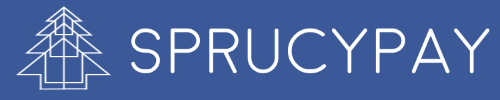
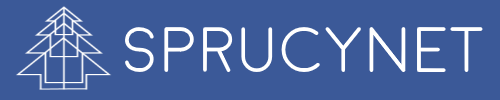
0.0.3 update
upated files to reflect the new sprucynet name
pointed to sprucy net db table
updated banner image

Changed region(s): [[0.24, 0.27, 0.99, 0.75]]

diff --git a/UserCreation.html b/UserCreation.html
@@ -1,4 +1,4 @@
-<!--SprucyPay Account Creation Page 8-19-16 v.0.0.2-->
+<!--SprucyNet Account Creation Page 8-19-16 v.0.0.3-->
 
 <HTML>
   <head>

diff --git a/admin.html b/admin.html
@@ -1,4 +1,4 @@
-<!--SprucyPay Admin Page 8-24-16 v.0.0.2-->
+<!--SprucyNet Admin Page 8-24-16 v.0.0.3-->
 
 <HTML>
 

diff --git a/actCreation.php b/actCreation.php
@@ -1,10 +1,10 @@
-<!--SprucyPay Account Creation Script 8-24-16 v.0.0.2-->
+<!--SprucyNet Account Creation Script 8-24-16 v.0.0.3-->
 
 <?php
 $servername = "localhost";
 $username = "cbentle";
 $password = "guest";
-$dbname = "sprucypay";
+$dbname = "sprucynet";
 
 // Create connection
 $conn = new mysqli($servername, $username, $password, $dbname);

diff --git a/user.php b/user.php
@@ -1,8 +1,9 @@
+<!--SprucyNet UserAdmin PHP 8-27-16 v.0.0.3-->
 <?php
         $servername = "localhost";
         $username = "cbentle";
         $password = "guest";
-        $dbname = "sprucypay";
+        $dbname = "sprucynet";
 
         // Create connection
         $conn = new mysqli($servername, $username, $password, $dbname);

diff --git a/README.md b/README.md
@@ -1,6 +1,8 @@
 # SprucyPay
 Bill Pay system
 
+0.0.3 - Rename of applicaiton to SprucyNet.  Additon of the home.html page
+
  0.0.2 - addion of the admin page and the account creation php script
 
  0.0.1 - user creation page and database
